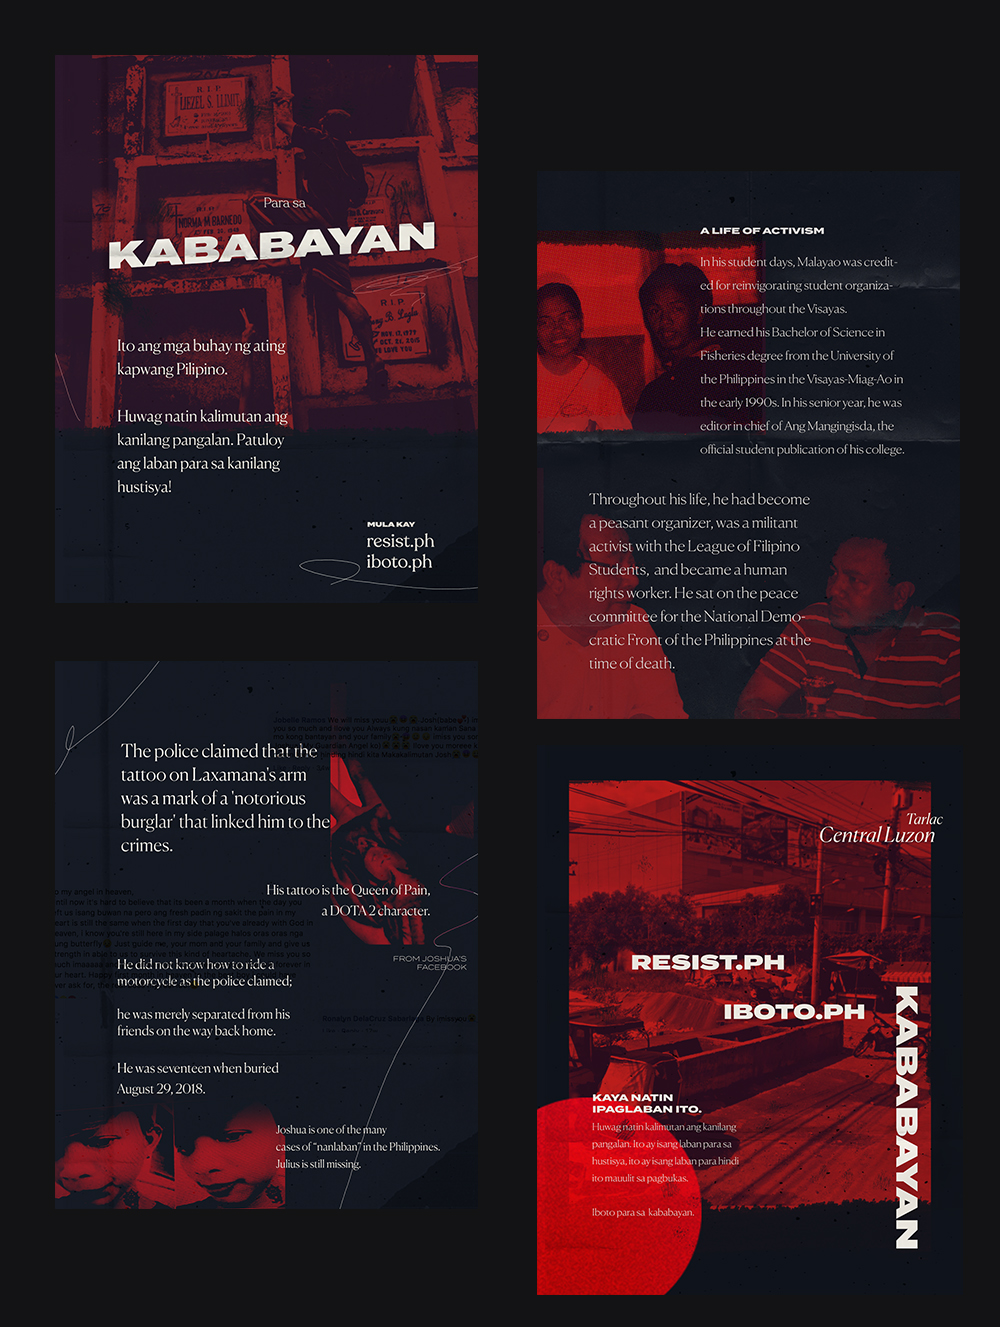
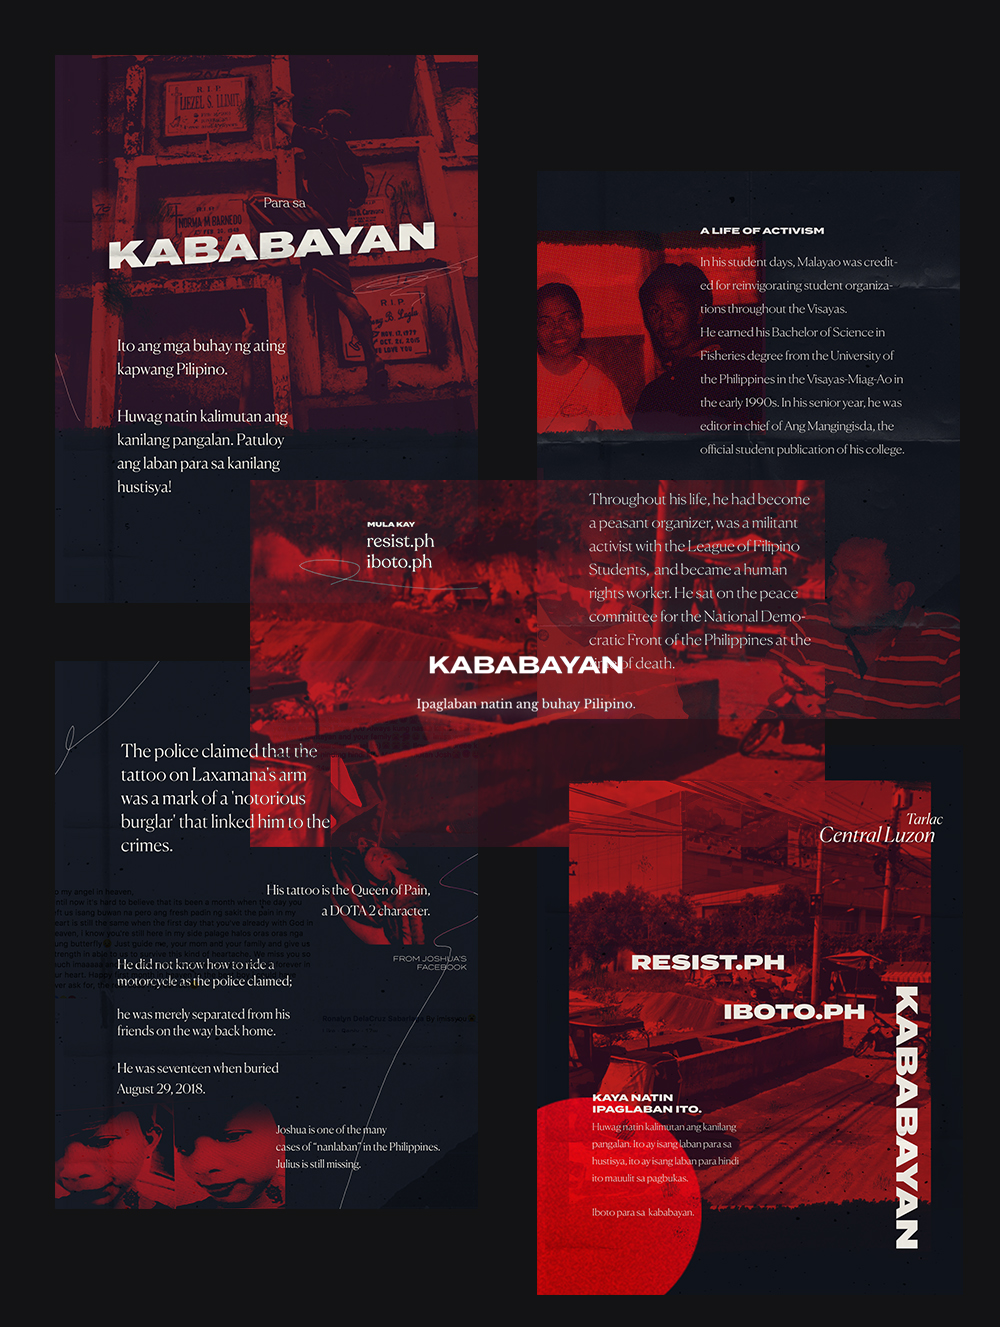
addd kababayan

Changed region(s): [[0.248, 0.3399, 0.837, 0.6488]]

diff --git a/html/index.html b/html/index.html
@@ -61,7 +61,7 @@
                   
                   
           
-            <div class="piece">
+            <div class="piece" id="kababayan">
                 
             <div class="title">
                 
@@ -73,9 +73,13 @@
           <div class="image-container">
                 
                 
-                <img  src="work/proj-kababayan.jpg">
+                <img src="work/proj-kababayan.jpg">
+                <img src="work/proj-kababayan-pieta.jpg">
                 
             </div>
+                
+                <p><strong>Kababayan</strong> was designed as a book collating the stories of victims of the Philippine drug war, accompanied by a website and a campaign I built for the upcoming elections. The 20-page minibook was a concept work tracing the lives and death of the Duterte administration.</p>
+                
           </div>
           
             <div class="piece">
